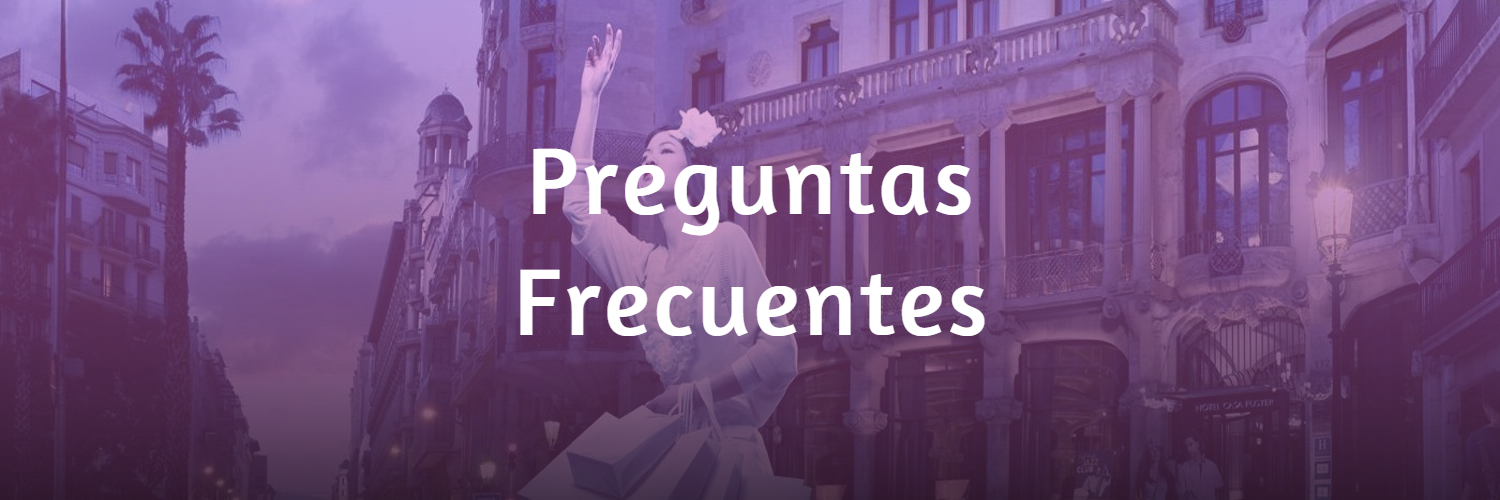
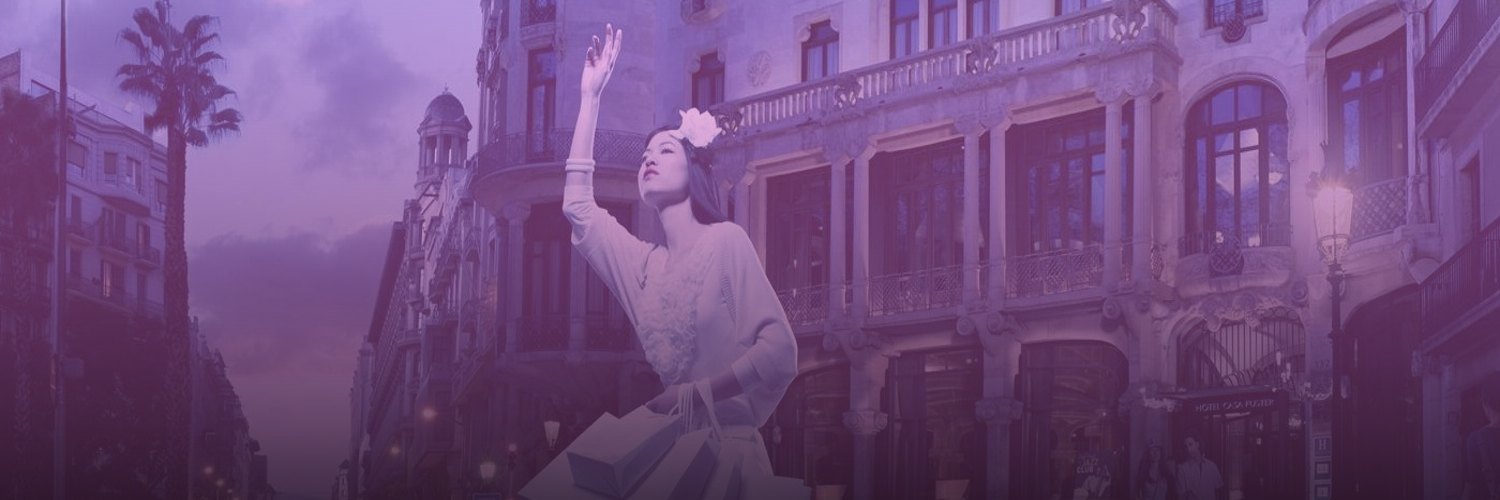
Página de Preguntas Frecuentes actualizada con Paleta de Colores y Estilos

Changed region(s): [[0.3373, 0.54, 0.6747, 0.69], [0.3373, 0.3, 0.644, 0.48]]

diff --git a/pages/preguntasFrecuentes.html b/pages/preguntasFrecuentes.html
@@ -12,6 +12,7 @@
     <link href="https://cdn.jsdelivr.net/npm/bootstrap@5.1.3/dist/css/bootstrap.min.css" rel="stylesheet"
         integrity="sha384-1BmE4kWBq78iYhFldvKuhfTAU6auU8tT94WrHftjDbrCEXSU1oBoqyl2QvZ6jIW3" crossorigin="anonymous">
     <link rel="stylesheet" href="https://cdnjs.cloudflare.com/ajax/libs/font-awesome/6.0.0-beta3/css/all.min.css">
+    <link rel="stylesheet" href="https://use.typekit.net/blk6xpl.css">
     <link rel="stylesheet" href="../css/style.css">
     <title>Preguntas Frecuentes|Consumoda</title>
 </head>
@@ -53,8 +54,11 @@
         </nav>
         </div>
         <!--Portada-->
-        <div class="p-5 text-center bg-image portadaPreguntasFrecuentes centrado">
-            <div class="d-flex justify-content-center align-items-center h-100">
+        <div class="p-5  portadaPreguntasFrecuentes">
+            <div>
+                <p class="portadaTituloPF">Preguntas</p>
+                <p class="portadaTituloPF">Frecuentes</p>
+
             </div>
         </div>
 
@@ -71,21 +75,10 @@
                 <div id="collapseOne" class="accordion-collapse collapse show" aria-labelledby="headingOne"
                     data-bs-parent="#accordionExample">
                     <div class="accordion-body">
-                        <strong>Lorem ipsum dolor sit amet. </strong>Lorem ipsum dolor sit amet, consectetur adipisicing
-                        elit, sed do eiusmod tempor incididunt ut labore et dolore magna aliqua. Ut enim ad minim
-                        veniam, quis nostrud exercitation ullamco laboris nisi ut aliquip ex ea commodo consequat. Duis
-                        aute irure dolor in reprehenderit in voluptate velit esse cillum dolore eu fugiat nulla
-                        pariatur. Excepteur sint occaecat cupidatat non proident, sunt in culpa qui officia deserunt
-                        mollit anim id est. Lorem ipsum dolor sit amet, consectetur adipisicing elit, sed do eiusmod
-                        tempor incididunt ut labore et dolore magna aliqua. Ut enim ad minim veniam, quis nostrud
-                        exercitation ullamco laboris nisi ut aliquip ex ea commodo consequat. Duis aute irure dolor in
-                        reprehenderit in voluptate velit esse cillum dolore eu fugiat nulla pariatur. Excepteur sint
-                        occaecat cupidatat non proident, sunt in culpa qui officia deserunt mollit anim id est
-                        laborum.Lorem ipsum dolor sit amet, consectetur adipisicing elit, sed do eiusmod tempor
-                        incididunt ut labore et dolore magna aliqua. Ut enim ad minim veniam, quis nostrud exercitation
-                        ullamco laboris nisi ut aliquip ex ea commodo consequat. Duis aute irure dolor in reprehenderit
-                        in voluptate velit esse cillum dolore eu fugiat nulla pariatur. Excepteur sint occaecat
-                        cupidatat non proident, sunt in culpa qui officia deserunt mollit anim id est laborum.
+                        <strong>Debes seleccionar "Añadir al Carrito" </strong>, botón que se encuentra debajo de cada
+                        item en venta. De esta forma estarás creando una "cesta virtual" en la cual se almacenarán todas
+                        tus elecciones. Cuando te decidas, presiona "Ir al Carrito". Una vez allí, te pedirán datos
+                        personales para poder efectuar el pago. No te preocupes, tus datos no serán vulnerados.
                     </div>
                 </div>
             </div>
@@ -99,8 +92,9 @@
                 <div id="collapseTwo" class="accordion-collapse collapse" aria-labelledby="headingTwo"
                     data-bs-parent="#accordionExample">
                     <div class="accordion-body">
-                        <strong>Es posible con tu código de seguimiento. </strong> Lorem ipsum dolor, sit amet
-                        consectetur adipisicing elit. Ducimus asperiores necessitatibus eligendi impedit tempora dicta!
+                        <strong>Es posible saber con tu código de seguimiento. </strong> Para ello puedes ingresar a:
+                        https://www.andesmarcargas.com/seguimiento.html . Una vez que ingreses el número de seguimiento
+                        (que te brindaremos por mail), tendrás toda la información disponible sobre tu paquete.
 
                     </div>
                 </div>
@@ -115,10 +109,10 @@
                 <div id="collapseThree" class="accordion-collapse collapse" aria-labelledby="headingThree"
                     data-bs-parent="#accordionExample">
                     <div class="accordion-body">
-                        <strong>Sí, pero debes contar con ciertos requisitos.</strong> Lorem ipsum, dolor sit amet
-                        consectetur adipisicing elit. Dolore ipsum at voluptatibus illo? Labore obcaecati vitae soluta?
-                        Perspiciatis doloribus laboriosam ut qui quaerat voluptatem quod laborum quia, necessitatibus
-                        excepturi molestiae?
+                        <strong>Sí, pero debes contar con ciertos requisitos.</strong> Si bien es posible obtener un
+                        reembolso, solo puedes solicitarlo hasta 2 días después de recibirlo y debes contar con la
+                        factura. Recuerda que la solicitud de tu reembolso debe ser por un desperfecto en la ropa o por
+                        un talle incorrecto.
                     </div>
                 </div>
             </div>
@@ -132,8 +126,9 @@
                 <div id="collapseThree" class="accordion-collapse collapse" aria-labelledby="headingThree"
                     data-bs-parent="#accordionExample">
                     <div class="accordion-body">
-                        <strong>Lorem, ipsum dolor.</strong> Lorem ipsum dolor sit amet consectetur adipisicing elit.
-                        Sed reprehenderit quaerat alias at molestiae facilis?
+                        <strong>Así es:</strong> Utilizamos Andesmar Cargas para poder garantizar que el producto llegue
+                        a todo el país. Sin embargo, debes tener en cuenta a la hora de comprar que el producto puede
+                        tardar hasta 20 días en llegar a tu casa.
                     </div>
                 </div>
             </div>
@@ -147,8 +142,8 @@
                 <div id="collapseThree" class="accordion-collapse collapse" aria-labelledby="headingThree"
                     data-bs-parent="#accordionExample">
                     <div class="accordion-body">
-                        <strong>Lorem ipsum dolor sit.</strong> Lorem ipsum, dolor sit amet consectetur adipisicing
-                        elit. Ipsum, temporibus quo? Fugiat consequatur beatae quia.
+                        <strong> Todas las semanas hay nuevas promociones. </strong> Para saber sobre ellas te
+                        recomendamos seguirnos en nuestras redes sociales y visitar la página con frecuencia.
                     </div>
                 </div>
             </div>
@@ -156,29 +151,13 @@
                 <h2 class="accordion-header" id="headingThree">
                     <button class="accordion-button collapsed" type="button" data-bs-toggle="collapse"
                         data-bs-target="#collapseThree" aria-expanded="false" aria-controls="collapseThree">
-                        <i class="fas fa-tshirt"></i> ¿Cómo puedo saber cuál es mi talle?
+                        <i class="fas fa-tshirt"></i> ¿Qué pasa si hago una compra "grande"?
                     </button>
                 </h2>
                 <div id="collapseThree" class="accordion-collapse collapse" aria-labelledby="headingThree"
                     data-bs-parent="#accordionExample">
                     <div class="accordion-body">
-                        <strong>Lorem ipsum dolor sit amet consectetur.</strong> Lorem ipsum dolor sit amet consectetur
-                        adipisicing elit. Magni illum iusto nam?
-                    </div>
-                </div>
-            </div>
-            <div class="accordion-item">
-                <h2 class="accordion-header" id="headingThree">
-                    <button class="accordion-button collapsed" type="button" data-bs-toggle="collapse"
-                        data-bs-target="#collapseThree" aria-expanded="false" aria-controls="collapseThree">
-                        <i class="fas fa-newspaper"></i> ¿Cómo puedo tener novedades sobre nuevas ofertas?
-                    </button>
-                </h2>
-                <div id="collapseThree" class="accordion-collapse collapse" aria-labelledby="headingThree"
-                    data-bs-parent="#accordionExample">
-                    <div class="accordion-body">
-                        <strong>Lorem, ipsum dolor sit amet consectetur adipisicing.</strong> Lorem ipsum dolor sit amet
-                        consectetur adipisicing elit. Aliquid, ipsum.
+                        ¡En caso de que tu compra sea superior a 15 prendas, recibirás de regalo una prenda extra!
                     </div>
                 </div>
             </div>

diff --git a/css/style.css b/css/style.css
@@ -14,13 +14,22 @@
     background-image: url(../images/PortadaPreguntasFrecuentes.png);
     background-size:cover;
     height: 60vh;
+    display: flex;
+    align-items: center;
+    justify-content: center;
+}
+.portadaTituloPF{
+    font-family: amaranth;
+    color: white;
+    font-size: 15vh;
 }
 .main{
     background-color: #FFC8DD;
+    /* FIJARSE SI QUEDA MEJOR EL ROSA O ESTE*/ 
     padding: 3vh;
 }
 .footer{
-    background-color: #FFAFCC;
+    background-color: #ff93bb;
 }
 .enlaceFooter{
     font-size: 2.4vh;
